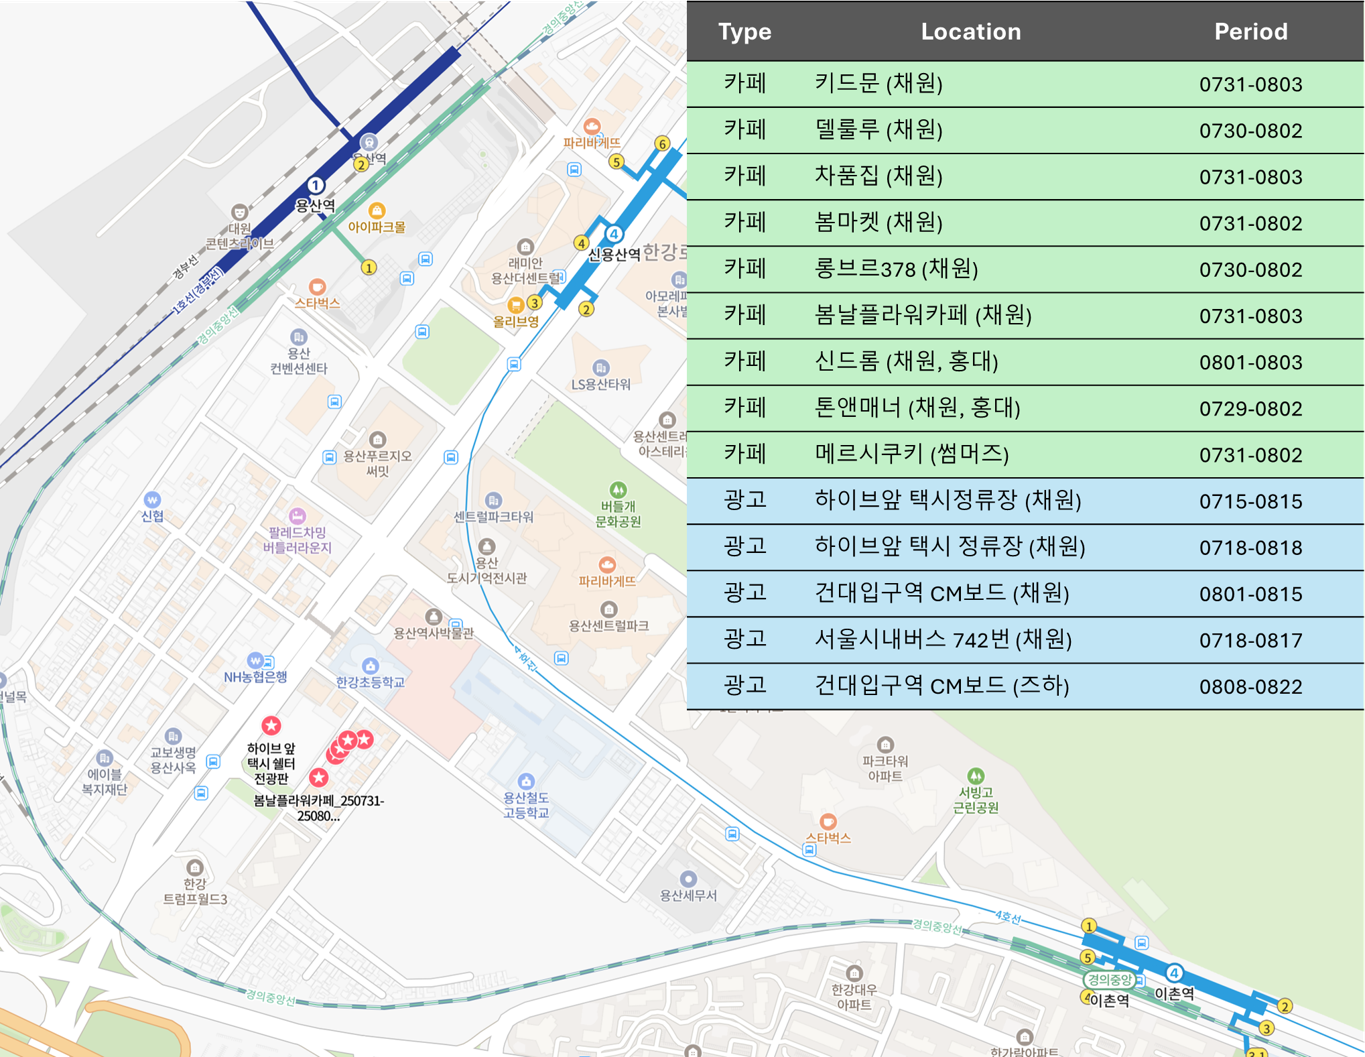
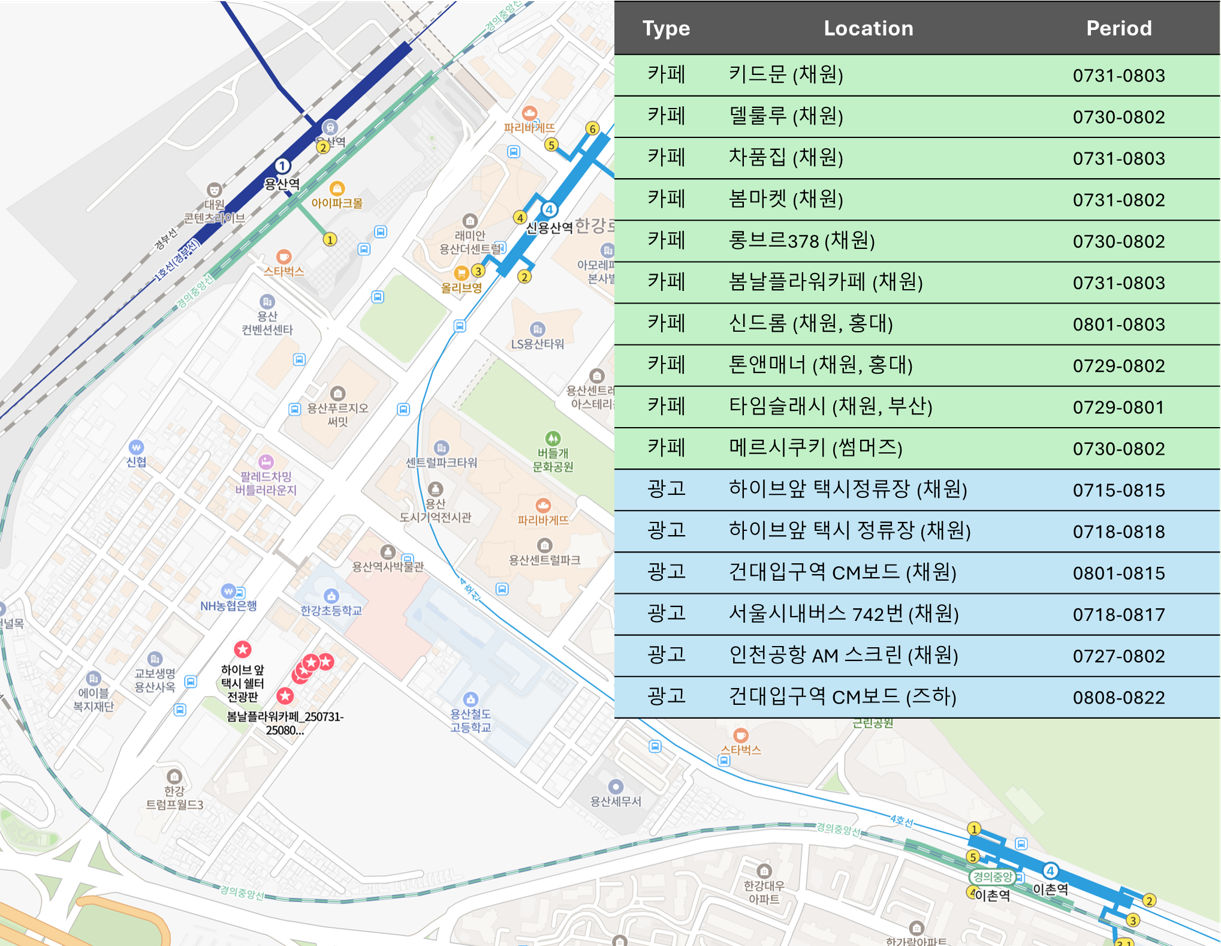
250723

diff --git a/_notes/타임슬래시_250730-250801.md b/_notes/타임슬래시_250730-250801.md
@@ -1,0 +1,32 @@
+---
+title: 타임슬래시_250730-250801
+tags:
+  - 2025년_채원_생일카페
+---
+
+<img src="/assets/1753281129.jpg"/>
+<img src="/assets/1753281129 (1).jpg">
+
+## 주소
+부산 부산진구 황령대로 64번길 25-1 1층
+<iframe src="https://www.google.com/maps/embed?pb=!1m18!1m12!1m3!1d3262.325398539555!2d129.06466071331508!3d35.14850465893755!2m3!1f0!2f0!3f0!3m2!1i1024!2i768!4f13.1!3m3!1m2!1s0x3568eb65fa49c761%3A0x4ec5859aa342c3e7!2z7YOA7J6E7Iqs656Y7Iuc!5e0!3m2!1sko!2skr!4v1741356543625!5m2!1sko!2skr" width="600" height="450" style="border:0;" allowfullscreen="" loading="lazy" referrerpolicy="no-referrer-when-downgrade"></iframe>
+
+## 기간
+2025-07-30 ~ 25-08-01
+
+
+## 세부사항
+
+#### 특전
+- 종이컵
+- 엽서
+- 포토카드
+- 스티커
+- 포토매틱
+
+
+## [🅽네이버 지도](https://naver.me/5A3R9IjX)
+## [🅚카카오 지도](https://place.map.kakao.com/1261689983)
+## 트위터
+
+<blockquote class="twitter-tweet"><p lang="ko" dir="ltr">🌊⛱🍉<br>-<br><br>르세라핌 김채원의 생일을 맞이하여 카페이벤트를 진행합니다.<br><br>🌊부산 타임슬래시<br>🌊25.07.30(수) - 25.08.01(금)<a href="https://twitter.com/hashtag/rt?src=hash&amp;ref_src=twsrc%5Etfw">#rt</a> 추첨을 통해 전체특전을 보내드립니다.<br><br> <a href="https://twitter.com/hashtag/%EA%B9%80%EC%B1%84%EC%9B%90?src=hash&amp;ref_src=twsrc%5Etfw">#김채원</a> <a href="https://twitter.com/hashtag/%EC%B1%84%EC%9B%90?src=hash&amp;ref_src=twsrc%5Etfw">#채원</a> <a href="https://twitter.com/hashtag/%E3%83%81%E3%82%A7%E3%82%A6%E3%82%A9%E3%83%B3?src=hash&amp;ref_src=twsrc%5Etfw">#チェウォン</a> <a href="https://twitter.com/hashtag/KIMCHAEWON?src=hash&amp;ref_src=twsrc%5Etfw">#KIMCHAEWON</a> <a href="https://twitter.com/hashtag/CHAEWON?src=hash&amp;ref_src=twsrc%5Etfw">#CHAEWON</a><a href="https://twitter.com/hashtag/LE_SSERAFIM?src=hash&amp;ref_src=twsrc%5Etfw">#LE_SSERAFIM</a> <a href="https://twitter.com/hashtag/%EB%A5%B4%EC%84%B8%EB%9D%BC%ED%95%8C?src=hash&amp;ref_src=twsrc%5Etfw">#르세라핌</a> <a href="https://t.co/Ydb6sLveHi">pic.twitter.com/Ydb6sLveHi</a></p>&mdash; 타임슬래시 | 부산생카 | 컵홀더 | 생일카페 | (@timeslashcafe2) <a href="https://twitter.com/timeslashcafe2/status/1947951381010424281?ref_src=twsrc%5Etfw">July 23, 2025</a></blockquote> <script async src="https://platform.twitter.com/widgets.js" charset="utf-8"></script>

diff --git a/_notes/하이브 인근 대로변 가로등 배너 광고_250731-250803.md b/_notes/하이브 인근 대로변 가로등 배너 광고_250731-250803.md
@@ -3,9 +3,4 @@ title: 하이브 인근 대로변 가로등 배너 광고_250731-250803
 tags:
   - 2025년_채원_생일광고
 ---
-<img src="assets/1752149067.jpeg">
-
-
-## 트위터
-
-<blockquote class="twitter-tweet"><p lang="ko" dir="ltr">𝟐𝟎𝟐𝟓 𝐂𝐇𝐀𝐄𝐖𝐎𝐍 𝐃𝐀𝐘 ◠◠ ★⊹<br><br>𝖯𝖠𝖱𝖳 𝟣 : 𝖧𝖸𝖡𝖤 𝖳𝖠𝖷𝖨 𝖲𝖧𝖤𝖫𝖳𝖤𝖱 𝖠𝖣 🚕💫<br><br>채원이의 생일을 축하하며 하이브 택시 쉘터 광고를 진행합니다.<a href="https://twitter.com/hashtag/%ED%94%BC%EC%96%B4%EB%82%98%EB%8A%94_%EC%B1%84%EC%9B%90%EC%9D%B4%EC%9D%98_%EA%B3%84%EC%A0%88?src=hash&amp;ref_src=twsrc%5Etfw">#피어나는_채원이의_계절</a><br><br>광고 기간 동안 해시태그와 함께 인증 사진을 올려주신 분 중 추첨을 통해 소정의 선물을 드립니다.… <a href="https://t.co/FhggLlzjMe">pic.twitter.com/FhggLlzjMe</a></p>&mdash; 김채원컴퍼니 (𝗞𝗖𝗪 𝗖𝗢𝗠𝗣𝗔𝗡𝗬) (@KCW_COMPANY) <a href="https://twitter.com/KCW_COMPANY/status/1943266487105728890?ref_src=twsrc%5Etfw">July 10, 2025</a></blockquote> <script async src="https://platform.twitter.com/widgets.js" charset="utf-8"></script>
+-취소추정-

diff --git a/_notes/인천공항 AM 스크린 광고250727-250802.md b/_notes/인천공항 AM 스크린 광고250727-250802.md
@@ -1,0 +1,10 @@
+---
+title: 인천공항 AM 스크린 광고250727-250802
+tags:
+  - 2025년_채원_생일광고
+---
+<img src="assets/GwjJZDNaAAAFiOR.jpg">
+
+## 트위터
+
+<blockquote class="twitter-tweet"><p lang="ko" dir="ltr">𝟤𝟢𝟤𝟧 𝐂𝐇𝐀𝐄𝐖𝐎𝐍 𝐁𝐈𝐑𝐓𝐇𝐃𝐀𝐘 𝐏𝐑𝐎𝐉𝐄𝐂𝐓<br>👒Part. 9 【인천공항 AM 스크린 광고】👒<br>🕗 기간: 2025년 7월 27일 - 2025년 8월 2일<br>📍 위치: 공항철도 인천공항1터미널역 승강장에스컬레이터 옆 <a href="https://t.co/e5gASNucx4">pic.twitter.com/e5gASNucx4</a></p>&mdash; KIM CHAEWON_CN (@KIMCHAEWON_CN) <a href="https://twitter.com/KIMCHAEWON_CN/status/1948028279270920602?ref_src=twsrc%5Etfw">July 23, 2025</a></blockquote> <script async src="https://platform.twitter.com/widgets.js" charset="utf-8"></script>

diff --git a/_notes/2025 채원 생일 이벤트.md b/_notes/2025 채원 생일 이벤트.md
@@ -32,6 +32,11 @@ tags:
 
 [[톤앤매너_250729-250802]]
 
+
+### 부산
+
+[[타임슬래시_250730-250801]]
+
 ### 썸머즈 합동
 
 [[메르시쿠키_250731-250802]]
@@ -51,8 +56,10 @@ tags:
 
 [[건대입구역_CM보드 광고_250801-250815]]
 
-[[명동역 DID 광고_250724-250807]]
-
 ### 기타서울
 
 [[서울 시내 버스 광고_250718-250817]]
+
+[[명동역 DID 광고_250724-250807]]
+
+[[인천공항 AM 스크린 광고250727-250802]]
